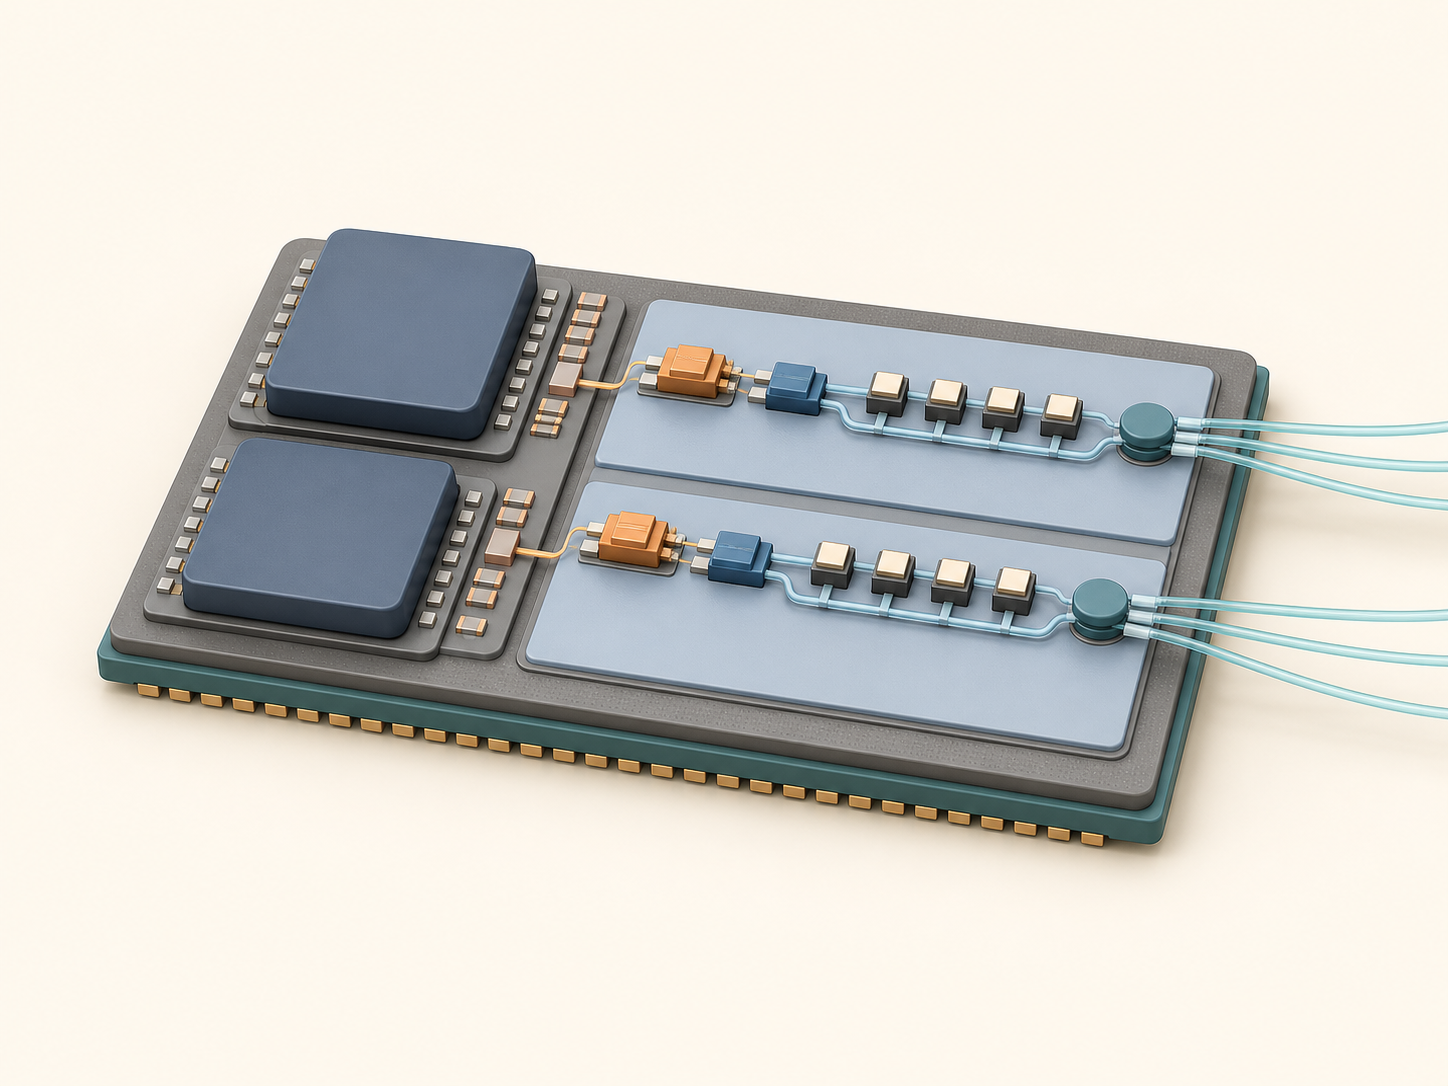
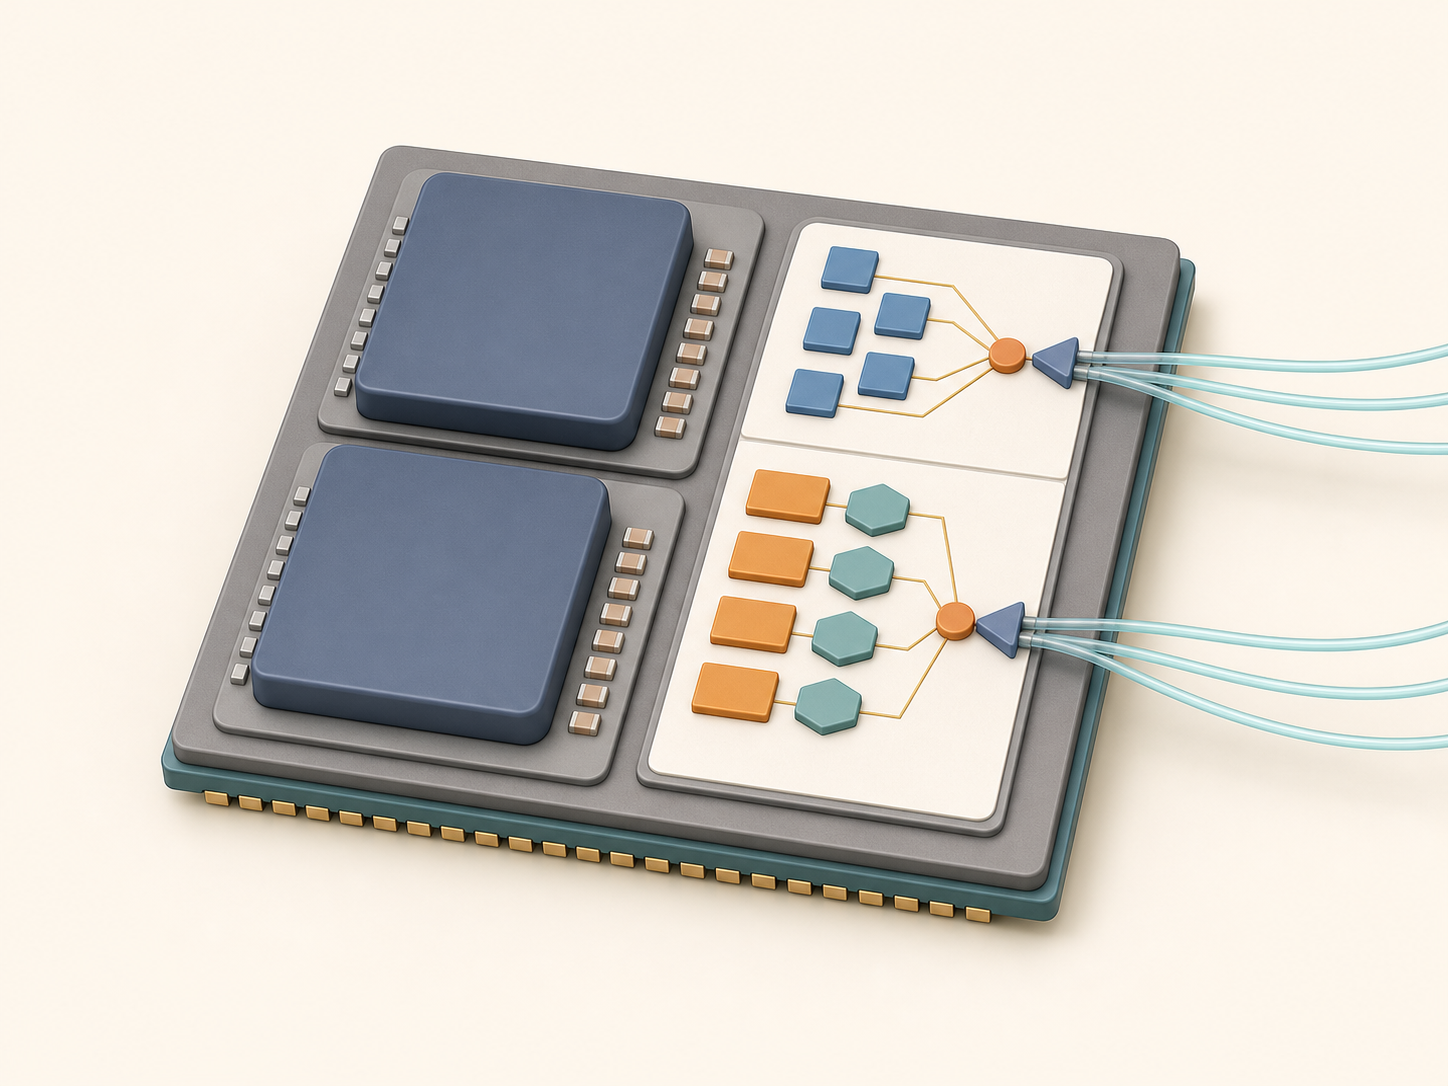
矽光子晶片圖解：換用更清晰的新底圖＋Terry 人工標註的 10 個標籤座標
新底圖元件形狀可辨（藍方塊探測器/橘矩形調變器/青六角雷射/圓節點耦合器）。
標籤由 Terry 在標註工具上對新圖親手定位匯出，含新增「矽光子積體電路」區塊標。
底圖與座標一起更新，線上不經錯位中間狀態。

diff --git a/2026/06-silicon-photonics-explainer.html b/2026/06-silicon-photonics-explainer.html
@@ -82,60 +82,66 @@
     <svg class="chip-svg" viewBox="0 0 1448 1086" role="img" aria-label="矽光子整合晶片結構標示圖">
       <image href="06-silicon-photonics-chip-base.png" x="0" y="0" width="1448" height="1086"/>
 
-      <!-- 標籤座標由標註工具人工定位匯出 -->
+      <!-- 標籤座標由標註工具人工定位匯出（新底圖） -->
       <g>
-        <line class="lead" x1="323" y1="65" x2="400" y2="324"/>
-        <rect class="pill" x="150" y="40" width="346" height="50" rx="9"/>
-        <text class="t-main" x="168" y="74">轉阻放大器（TIA）</text>
-        <circle class="dot-s" cx="400" cy="324" r="9"/>
+        <line class="lead-em" x1="644.5" y1="964" x2="735" y2="686"/>
+        <rect class="pill-em" x="518" y="939" width="253" height="50" rx="9"/>
+        <text class="t-main" x="536" y="973">三五族混成雷射</text>
+        <circle class="dot" cx="735" cy="686" r="9"/>
       </g>
       <g>
-        <line class="lead" x1="115.5" y1="495" x2="315" y2="522"/>
-        <rect class="pill" x="20" y="470" width="191" height="50" rx="9"/>
-        <text class="t-main" x="38" y="504">驅動 IC</text>
-        <circle class="dot-s" cx="315" cy="522" r="9"/>
+        <line class="lead-em" x1="891" y1="965" x2="829" y2="702"/>
+        <rect class="pill-em" x="811" y="940" width="160" height="50" rx="9"/>
+        <text class="t-main" x="829" y="974">矽調變器</text>
+        <circle class="dot" cx="829" cy="702" r="9"/>
       </g>
       <g>
-        <line class="lead-em" x1="666.5" y1="635" x2="634" y2="540"/>
-        <rect class="pill-em" x="540" y="610" width="253" height="50" rx="9"/>
-        <text class="t-main" x="558" y="644">三五族混成雷射</text>
-        <circle class="dot" cx="634" cy="540" r="9"/>
+        <line class="lead" x1="1172" y1="175" x2="1009" y2="351"/>
+        <rect class="pill" x="1030" y="150" width="284" height="50" rx="9"/>
+        <text class="t-main" x="1048" y="184">多工器／解多工器</text>
+        <circle class="dot-s" cx="1009" cy="351" r="9"/>
       </g>
       <g>
-        <line class="lead-em" x1="892" y1="725" x2="837" y2="561"/>
-        <rect class="pill-em" x="812" y="700" width="160" height="50" rx="9"/>
-        <text class="t-main" x="830" y="734">矽調變器</text>
-        <circle class="dot" cx="837" cy="561" r="9"/>
+        <line class="lead-em" x1="751" y1="65" x2="848" y2="265"/>
+        <rect class="pill-em" x="640" y="40" width="222" height="50" rx="9"/>
+        <text class="t-main" x="658" y="74">鍺光電探測器</text>
+        <circle class="dot" cx="848" cy="265" r="9"/>
       </g>
       <g>
-        <line class="lead" x1="1182" y1="175" x2="1149" y2="419"/>
-        <rect class="pill" x="1040" y="150" width="284" height="50" rx="9"/>
-        <text class="t-main" x="1058" y="184">多工器／解多工器</text>
-        <circle class="dot-s" cx="1149" cy="419" r="9"/>
+        <line class="lead" x1="1259.5" y1="498" x2="1007" y2="624"/>
+        <rect class="pill" x="1195" y="473" width="129" height="50" rx="9"/>
+        <text class="t-main" x="1213" y="507">耦合器</text>
+        <circle class="dot-s" cx="1007" cy="624" r="9"/>
       </g>
       <g>
-        <line class="lead-em" x1="871" y1="65" x2="796" y2="375"/>
-        <rect class="pill-em" x="760" y="40" width="222" height="50" rx="9"/>
-        <text class="t-main" x="778" y="74">鍺光電探測器</text>
-        <circle class="dot" cx="796" cy="375" r="9"/>
+        <line class="lead" x1="1268" y1="278" x2="1270" y2="364"/>
+        <rect class="pill" x="1219" y="253" width="98" height="50" rx="9"/>
+        <text class="t-main" x="1237" y="287">光纖</text>
+        <circle class="dot-s" cx="1270" cy="364" r="9"/>
       </g>
       <g>
-        <line class="lead" x1="1315.5" y1="565" x2="1144" y2="616"/>
-        <rect class="pill" x="1251" y="540" width="129" height="50" rx="9"/>
-        <text class="t-main" x="1269" y="574">耦合器</text>
-        <circle class="dot-s" cx="1144" cy="616" r="9"/>
+        <line class="lead" x1="1060.5" y1="66" x2="916" y2="280"/>
+        <rect class="pill" x="934" y="41" width="253" height="50" rx="9"/>
+        <text class="t-main" x="952" y="75">矽光子積體電路</text>
+        <circle class="dot-s" cx="916" cy="280" r="9"/>
       </g>
       <g>
-        <line class="lead" x1="1355" y1="275" x2="1374" y2="428"/>
-        <rect class="pill" x="1306" y="250" width="98" height="50" rx="9"/>
-        <text class="t-main" x="1324" y="284">光纖</text>
-        <circle class="dot-s" cx="1374" cy="428" r="9"/>
+        <line class="lead" x1="376" y1="909" x2="396" y2="769"/>
+        <rect class="pill" x="265" y="884" width="222" height="50" rx="9"/>
+        <text class="t-main" x="283" y="918">中介層電路板</text>
+        <circle class="dot-s" cx="396" cy="769" r="9"/>
       </g>
       <g>
-        <line class="lead" x1="285.5" y1="794" x2="372" y2="666"/>
-        <rect class="pill" x="35" y="769" width="501" height="50" rx="9"/>
-        <text class="t-main" x="53" y="803">中介層（Interposer）</text>
-        <circle class="dot-s" cx="372" cy="666" r="9"/>
+        <line class="lead" x1="132.5" y1="907" x2="429" y2="580"/>
+        <rect class="pill" x="37" y="882" width="191" height="50" rx="9"/>
+        <text class="t-main" x="55" y="916">驅動 IC</text>
+        <circle class="dot-s" cx="429" cy="580" r="9"/>
+      </g>
+      <g>
+        <line class="lead" x1="485.5" y1="66" x2="516" y2="302"/>
+        <rect class="pill" x="390" y="41" width="191" height="50" rx="9"/>
+        <text class="t-main" x="408" y="75">轉阻放大器</text>
+        <circle class="dot-s" cx="516" cy="302" r="9"/>
       </g>
     </svg>
   </div>